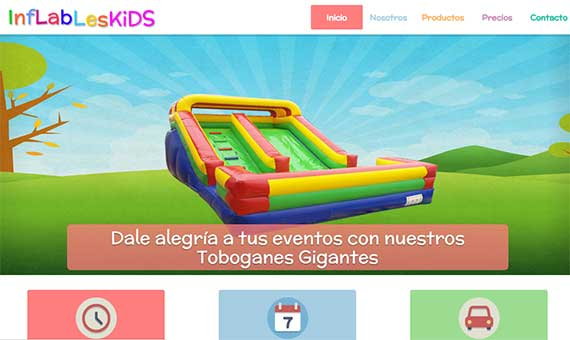
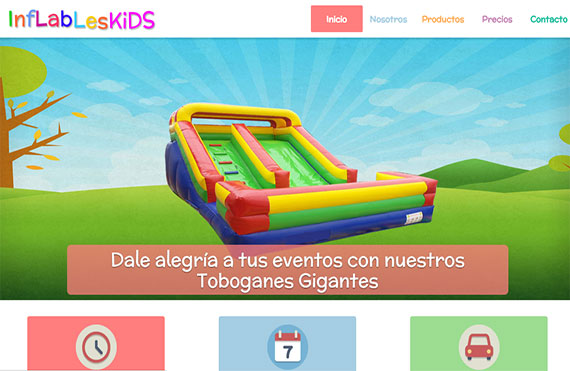
Modificacion tamaño de imagen

diff --git a/index.html b/index.html
@@ -385,9 +385,10 @@
                                                                
                             </ul>
                             <div class="tecno">
+                                <span class="label label-default">Bootstrap</span>
                                 <span class="label label-default">HTML5</span>
                                 <span class="label label-default">PHP</span>
-                                <span class="label label-default">Bootstrap</span>
+                                <span class="label label-default">Sass</span>
                                 <span class="label label-default">JQuery</span>
                             </div>
                                                     
